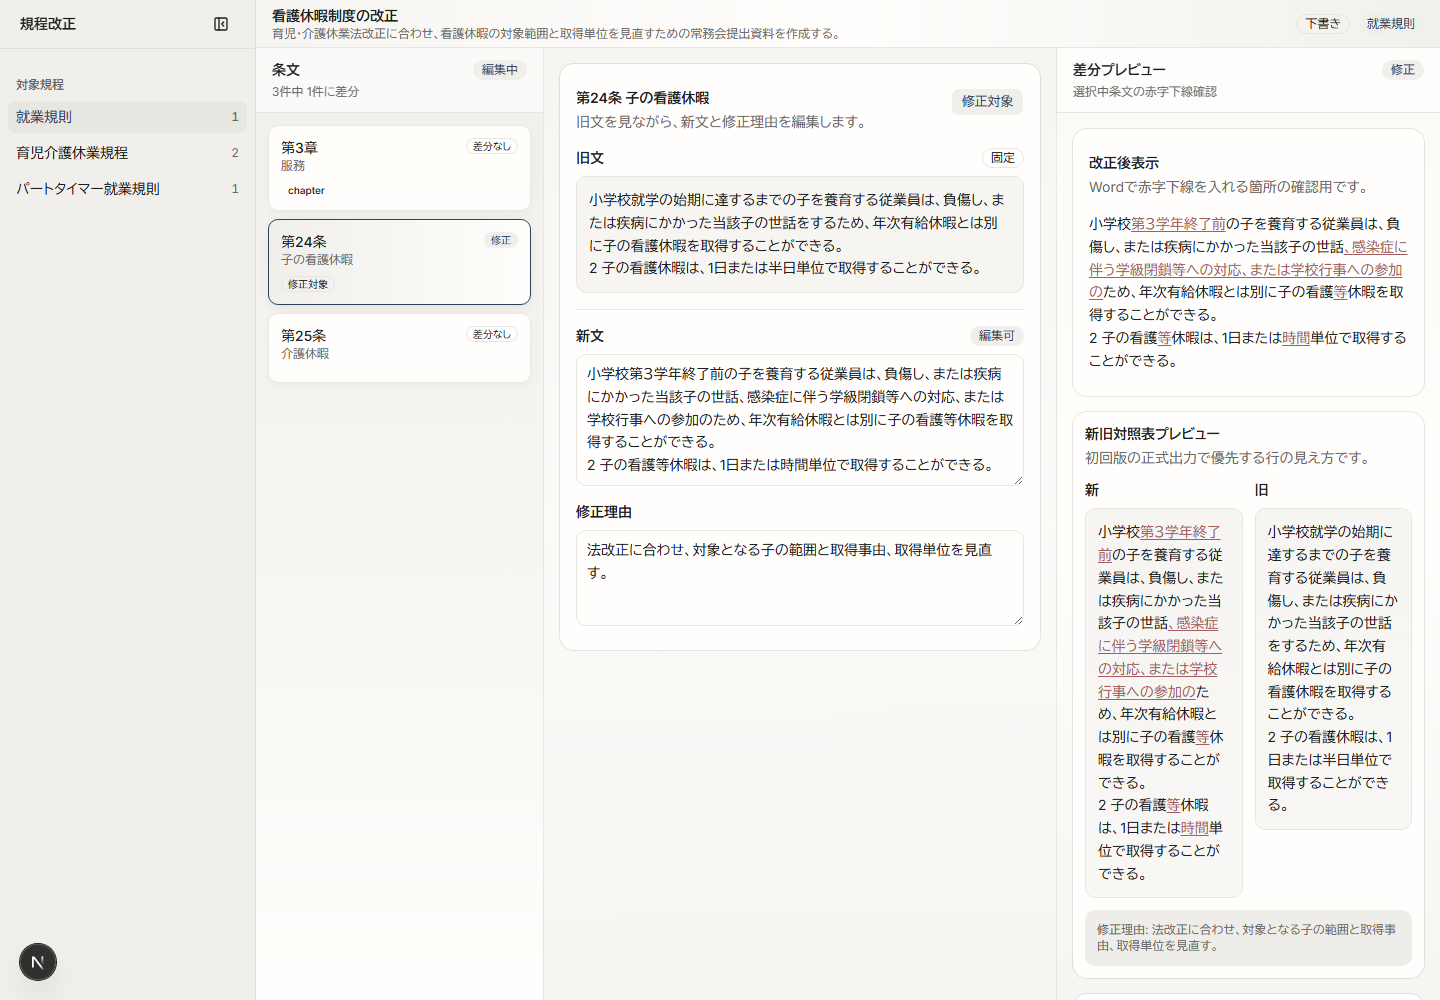
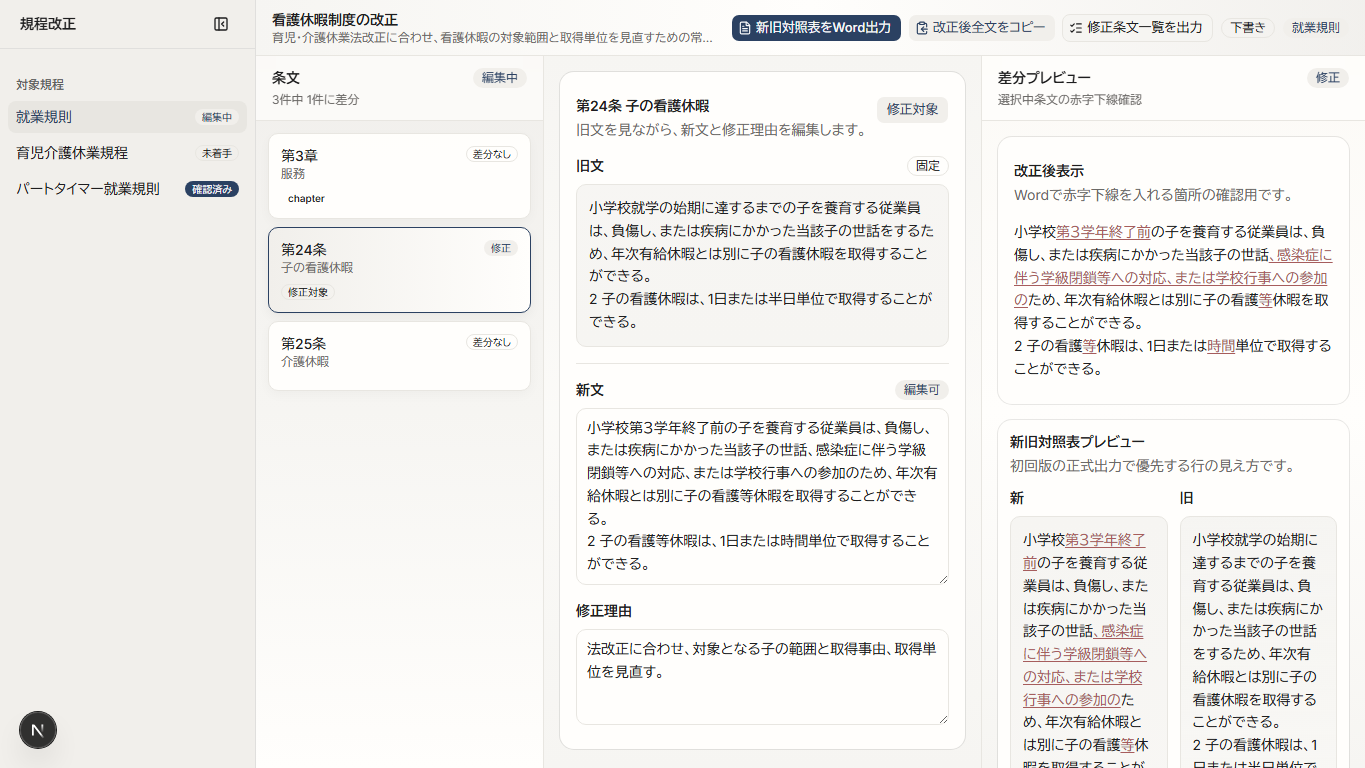
feat: 規程改正ワークスペースの出力導線を追加

diff --git a/output/regulation-revision-peer/index.html b/output/regulation-revision-peer/index.html
@@ -31,17 +31,56 @@
 
 <section class="mb-16 md:mb-20">
   <div class="flex items-center gap-3 mb-8"><div class="flex items-center justify-center w-10 h-10 rounded-lg bg-blue-500/10 flex-shrink-0"><i data-lucide="camera" class="w-5 h-5 text-blue-600"></i></div><h2 class="text-xl md:text-2xl font-bold text-slate-900">ツール画面のキャプチャ</h2></div>
-  <figure class="my-6 rounded-xl border border-ads-border overflow-hidden bg-ads-surface shadow-sm"><img src="assets/workspace-screenshot.png" alt="規程改正ワークスペースの4ペイン画面。左から対象規程、条文リスト、旧文と新文の編集、差分プレビューが並んでいる。" class="w-full h-auto block" loading="lazy" decoding="async" /><figcaption class="px-4 py-3 text-sm text-ads-muted border-t border-ads-border">実装した規程改正ワークスペース。左から右へ、作業の流れがそのまま画面の流れになります。</figcaption></figure>
+  <figure class="my-6 rounded-xl border border-ads-border overflow-hidden bg-ads-surface shadow-sm"><img src="assets/workspace-screenshot.png" alt="規程改正ワークスペースの4ペイン画面。上部に新旧対照表Word出力、改正後全文コピー、修正条文一覧出力のボタンがあり、左から対象規程、条文リスト、旧文と新文の編集、差分プレビューが並んでいる。" class="w-full h-auto block" loading="lazy" decoding="async" /><figcaption class="px-4 py-3 text-sm text-ads-muted border-t border-ads-border">実装した規程改正ワークスペース。上部の出力ボタンから、確認後の提出資料作成へ進めます。</figcaption></figure>
 </section>
 
 <section class="mb-16 md:mb-20">
   <div class="flex items-center gap-3 mb-8"><div class="flex items-center justify-center w-10 h-10 rounded-lg bg-emerald-500/10 flex-shrink-0"><i data-lucide="route" class="w-5 h-5 text-emerald-600"></i></div><h2 class="text-xl md:text-2xl font-bold text-slate-900">4ペインで進める操作と役割</h2></div>
-  <div class="grid md:grid-cols-2 gap-4">
-    <div class="bg-ads-surface border border-ads-border rounded-xl p-5"><div class="flex items-center gap-2 mb-3"><div class="flex items-center justify-center w-7 h-7 rounded-full bg-ads-accent text-white text-sm font-bold flex-shrink-0">1</div><i data-lucide="folder-open" class="w-5 h-5 text-blue-600"></i><h3 class="font-bold text-slate-900">Pane 1: 対象規程を選ぶ</h3></div><p class="text-sm text-ads-muted">改正案件に含まれる複数の規程を並べ、今回直す規程を選びます。進捗と差分件数もここで把握します。</p></div>
-    <div class="bg-ads-surface border border-ads-border rounded-xl p-5"><div class="flex items-center gap-2 mb-3"><div class="flex items-center justify-center w-7 h-7 rounded-full bg-ads-accent text-white text-sm font-bold flex-shrink-0">2</div><i data-lucide="list-checks" class="w-5 h-5 text-blue-600"></i><h3 class="font-bold text-slate-900">Pane 2: 条文を選ぶ</h3></div><p class="text-sm text-ads-muted">選択中規程の条文を一覧化し、編集したい条文を選びます。「修正対象」と「差分あり」も分けて見せます。</p></div>
-    <div class="bg-blue-500/5 border border-blue-500/20 rounded-xl p-5"><div class="flex items-center gap-2 mb-3"><div class="flex items-center justify-center w-7 h-7 rounded-full bg-ads-accent text-white text-sm font-bold flex-shrink-0">3</div><i data-lucide="file-pen-line" class="w-5 h-5 text-ads-accent-light"></i><h3 class="font-bold text-slate-900">Pane 3: 新文を編集する</h3></div><p class="text-sm text-ads-muted">旧文を固定表示し、新文と修正理由だけを編集します。規程改正作業の中心になる場所です。</p></div>
-    <div class="bg-blue-500/5 border border-blue-500/20 rounded-xl p-5"><div class="flex items-center gap-2 mb-3"><div class="flex items-center justify-center w-7 h-7 rounded-full bg-ads-accent text-white text-sm font-bold flex-shrink-0">4</div><i data-lucide="scan-text" class="w-5 h-5 text-ads-accent-light"></i><h3 class="font-bold text-slate-900">Pane 4: 差分を見る</h3></div><p class="text-sm text-ads-muted">選択中条文の赤字下線差分と、新旧対照表の見え方を確認します。</p></div>
+  <div class="rounded-xl border border-ads-border bg-white shadow-sm overflow-hidden">
+    <div class="grid grid-cols-4 border-b border-ads-border bg-ads-surface">
+      <div class="p-4 text-center border-r border-ads-border"><div class="mx-auto mb-2 flex w-8 h-8 items-center justify-center rounded-full bg-ads-accent text-sm font-bold text-white">1</div><i data-lucide="folder-open" class="w-5 h-5 text-blue-600 mx-auto mb-2"></i><h3 class="text-sm font-bold text-slate-900">対象規程</h3></div>
+      <div class="p-4 text-center border-r border-ads-border"><div class="mx-auto mb-2 flex w-8 h-8 items-center justify-center rounded-full bg-ads-accent text-sm font-bold text-white">2</div><i data-lucide="list-checks" class="w-5 h-5 text-blue-600 mx-auto mb-2"></i><h3 class="text-sm font-bold text-slate-900">条文</h3></div>
+      <div class="p-4 text-center border-r border-ads-border bg-blue-500/5"><div class="mx-auto mb-2 flex w-8 h-8 items-center justify-center rounded-full bg-ads-accent text-sm font-bold text-white">3</div><i data-lucide="file-pen-line" class="w-5 h-5 text-ads-accent-light mx-auto mb-2"></i><h3 class="text-sm font-bold text-slate-900">新文編集</h3></div>
+      <div class="p-4 text-center bg-blue-500/5"><div class="mx-auto mb-2 flex w-8 h-8 items-center justify-center rounded-full bg-ads-accent text-sm font-bold text-white">4</div><i data-lucide="scan-text" class="w-5 h-5 text-ads-accent-light mx-auto mb-2"></i><h3 class="text-sm font-bold text-slate-900">差分確認</h3></div>
+    </div>
+    <div class="grid md:grid-cols-4 gap-4 p-5">
+      <p class="text-sm text-ads-muted"><span class="font-bold text-slate-900">Pane 1:</span> 改正案件に含まれる複数の規程を並べ、今回直す規程を選びます。未着手・編集中・確認済みの進捗ステータスもここで把握します。</p>
+      <p class="text-sm text-ads-muted"><span class="font-bold text-slate-900">Pane 2:</span> 選択中規程の条文を一覧化し、編集したい条文を選びます。「修正対象」と「差分あり」も分けて見せます。</p>
+      <p class="text-sm text-ads-muted"><span class="font-bold text-slate-900">Pane 3:</span> 旧文を固定表示し、新文と修正理由だけを編集します。規程改正作業の中心になる場所です。</p>
+      <p class="text-sm text-ads-muted"><span class="font-bold text-slate-900">Pane 4:</span> 選択中条文の赤字下線差分と、新旧対照表の見え方を確認します。</p>
+    </div>
   </div>
+</section>
+
+<section class="mb-16 md:mb-20">
+  <div class="flex items-center gap-3 mb-8"><div class="flex items-center justify-center w-10 h-10 rounded-lg bg-blue-500/10 flex-shrink-0"><i data-lucide="file-output" class="w-5 h-5 text-blue-600"></i></div><h2 class="text-xl md:text-2xl font-bold text-slate-900">新旧対照表Word出力の流れ</h2></div>
+  <div class="grid sm:grid-cols-3 gap-4 mb-6">
+    <div class="bg-ads-surface border border-ads-border rounded-xl p-5"><div class="flex items-center gap-2 mb-3"><div class="flex items-center justify-center w-7 h-7 rounded-full bg-ads-accent text-white text-sm font-bold flex-shrink-0">1</div><i data-lucide="scan-text" class="w-5 h-5 text-blue-600"></i><h3 class="font-bold text-slate-900">差分を確認</h3></div><p class="text-sm text-ads-muted">Pane 4で赤字下線差分と新旧対照表プレビューを確認します。</p></div>
+    <div class="bg-ads-surface border border-ads-border rounded-xl p-5"><div class="flex items-center gap-2 mb-3"><div class="flex items-center justify-center w-7 h-7 rounded-full bg-ads-accent text-white text-sm font-bold flex-shrink-0">2</div><i data-lucide="file-text" class="w-5 h-5 text-blue-600"></i><h3 class="font-bold text-slate-900">Word出力</h3></div><p class="text-sm text-ads-muted">画面上部の「新旧対照表をWord出力」ボタンから、選択中の規程全体を出力します。</p></div>
+    <div class="bg-ads-surface border border-ads-border rounded-xl p-5"><div class="flex items-center gap-2 mb-3"><div class="flex items-center justify-center w-7 h-7 rounded-full bg-ads-accent text-white text-sm font-bold flex-shrink-0">3</div><i data-lucide="table-2" class="w-5 h-5 text-blue-600"></i><h3 class="font-bold text-slate-900">提出資料化</h3></div><p class="text-sm text-ads-muted">変更箇所だけを新旧2列で並べ、変更のない範囲は【略】として整理します。</p></div>
+  </div>
+  <figure class="rounded-xl border border-ads-border overflow-hidden bg-white shadow-sm">
+    <div class="bg-ads-surface border-b border-ads-border px-4 py-3 flex items-center justify-between gap-3"><div><p class="text-sm font-bold text-slate-900">出力イメージ: 新旧対照表</p><p class="text-xs text-ads-muted">常務会提出用の2列表です。</p></div><span class="inline-flex items-center gap-1 rounded-full bg-ads-accent/10 px-3 py-1 text-xs font-medium text-ads-accent-light"><i data-lucide="file-text" class="w-3.5 h-3.5"></i>Word</span></div>
+    <div class="p-4 md:p-6 bg-slate-100">
+      <div class="mx-auto max-w-2xl rounded-sm bg-white p-5 shadow-md ring-1 ring-slate-200">
+        <table class="w-full border-collapse text-sm text-slate-900">
+          <thead>
+            <tr>
+              <th class="w-1/2 border border-slate-400 bg-slate-50 px-3 py-2 text-center font-bold">新</th>
+              <th class="w-1/2 border border-slate-400 bg-slate-50 px-3 py-2 text-center font-bold">旧</th>
+            </tr>
+          </thead>
+          <tbody>
+            <tr>
+              <td class="align-top border border-slate-400 px-3 py-3 leading-7">就業規則（案）<br>第１条～第２条　【略】<br>第３条　対象者は、職員、嘱託職員、<span class="font-bold text-red-600 underline decoration-red-600 underline-offset-2">再雇用嘱託職員</span>とする。<br>第４条～第３０条　【略】<br>以上</td>
+              <td class="align-top border border-slate-400 px-3 py-3 leading-7">就業規則<br>第１条～第２条　【略】<br>第３条　対象者は、職員、嘱託職員とする。<br>第４条～第３０条　【略】<br>以上</td>
+            </tr>
+          </tbody>
+        </table>
+      </div>
+    </div>
+    <figcaption class="px-4 py-3 text-sm text-ads-muted border-t border-ads-border">アプリ内では条文単位で編集し、出力時に規程全体の変更行と省略行を組み立てます。</figcaption>
+  </figure>
 </section>
 
 <section class="mb-16 md:mb-20">

diff --git a/components/regulation-revision/RegulationRevisionWorkspace.tsx b/components/regulation-revision/RegulationRevisionWorkspace.tsx
@@ -1,6 +1,7 @@
 "use client";
 
 import { useCallback, useMemo, useState } from "react";
+import { ClipboardCopy, FileText, ListChecks } from "lucide-react";
 
 import {
   type RegulationArticleBlock,
@@ -285,7 +286,6 @@ export function RegulationRevisionWorkspace({
             <SidebarGroupContent>
               <SidebarMenu>
                 {workspace.regulations.map((regulation) => {
-                  const changedCount = countChangedArticles(regulation.articles);
                   return (
                     <SidebarMenuItem key={regulation.id}>
                       <SidebarMenuButton
@@ -294,9 +294,13 @@ export function RegulationRevisionWorkspace({
                         onClick={() => selectRegulation(regulation.id)}
                       >
                         <span className="truncate">{regulation.title}</span>
-                        <span className="ml-auto text-xs text-muted-foreground tabular-nums">
-                          {changedCount}
-                        </span>
+                        <Badge
+                          className="ml-auto"
+                          variant={progressBadgeVariant(regulation.progressStatus)}
+                          size="xs"
+                        >
+                          {progressLabels[regulation.progressStatus]}
+                        </Badge>
                       </SidebarMenuButton>
                     </SidebarMenuItem>
                   );
@@ -308,7 +312,7 @@ export function RegulationRevisionWorkspace({
       </Sidebar>
 
       <SidebarInset className="flex min-w-0 flex-col bg-transparent">
-        <header className="flex h-12 shrink-0 items-center justify-between gap-3 border-b bg-gradient-to-r from-background via-card to-muted/60 px-4">
+        <header className="flex min-h-14 shrink-0 items-center justify-between gap-3 border-b bg-gradient-to-r from-background via-card to-muted/60 px-4 py-2">
           <div className="flex min-w-0 items-center gap-3">
             <div className="min-w-0">
               <p className="truncate text-sm font-semibold">{workspace.title}</p>
@@ -317,7 +321,21 @@ export function RegulationRevisionWorkspace({
               </p>
             </div>
           </div>
-          <div className="flex shrink-0 items-center gap-2">
+          <div className="flex shrink-0 flex-wrap items-center justify-end gap-2">
+            <div className="flex flex-wrap items-center justify-end gap-1.5">
+              <Button type="button" size="sm">
+                <FileText data-icon="inline-start" aria-hidden />
+                新旧対照表をWord出力
+              </Button>
+              <Button type="button" variant="secondary" size="sm">
+                <ClipboardCopy data-icon="inline-start" aria-hidden />
+                改正後全文をコピー
+              </Button>
+              <Button type="button" variant="outline" size="sm">
+                <ListChecks data-icon="inline-start" aria-hidden />
+                修正条文一覧を出力
+              </Button>
+            </div>
             <Badge variant="outline">{workspaceStatusLabels[workspace.status]}</Badge>
             <Badge variant="secondary">{activeRegulation.title}</Badge>
           </div>
